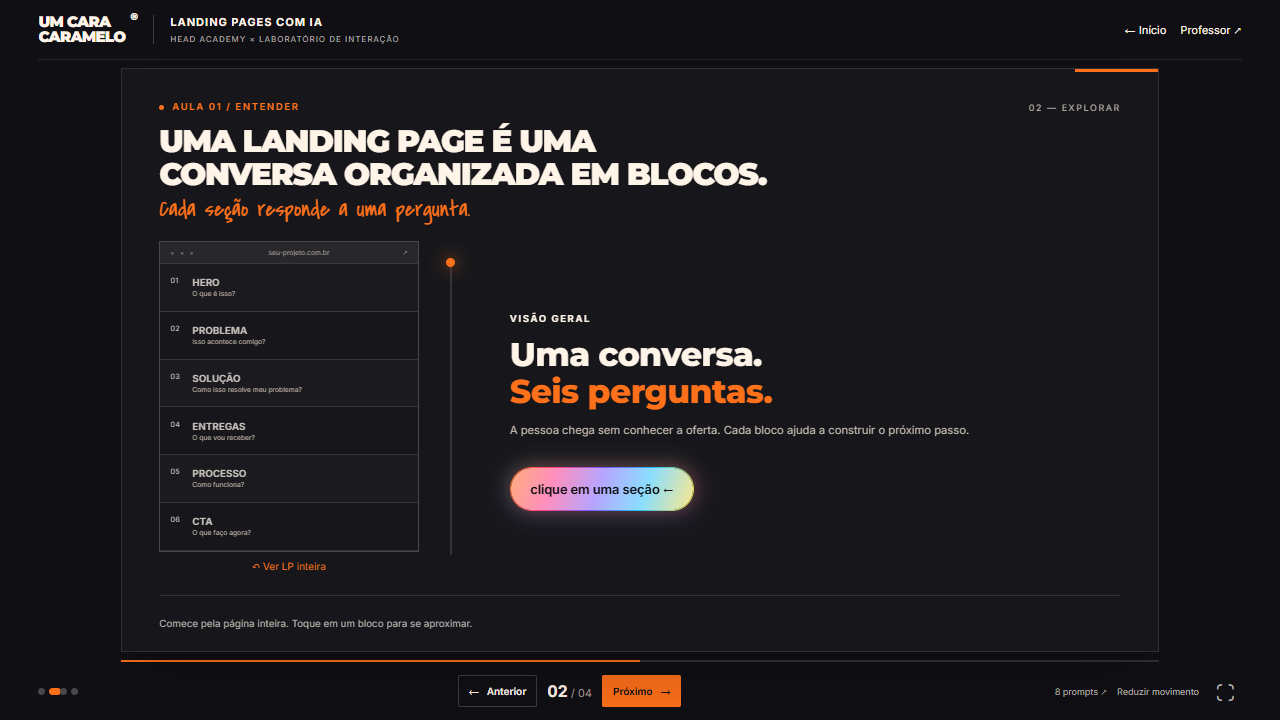
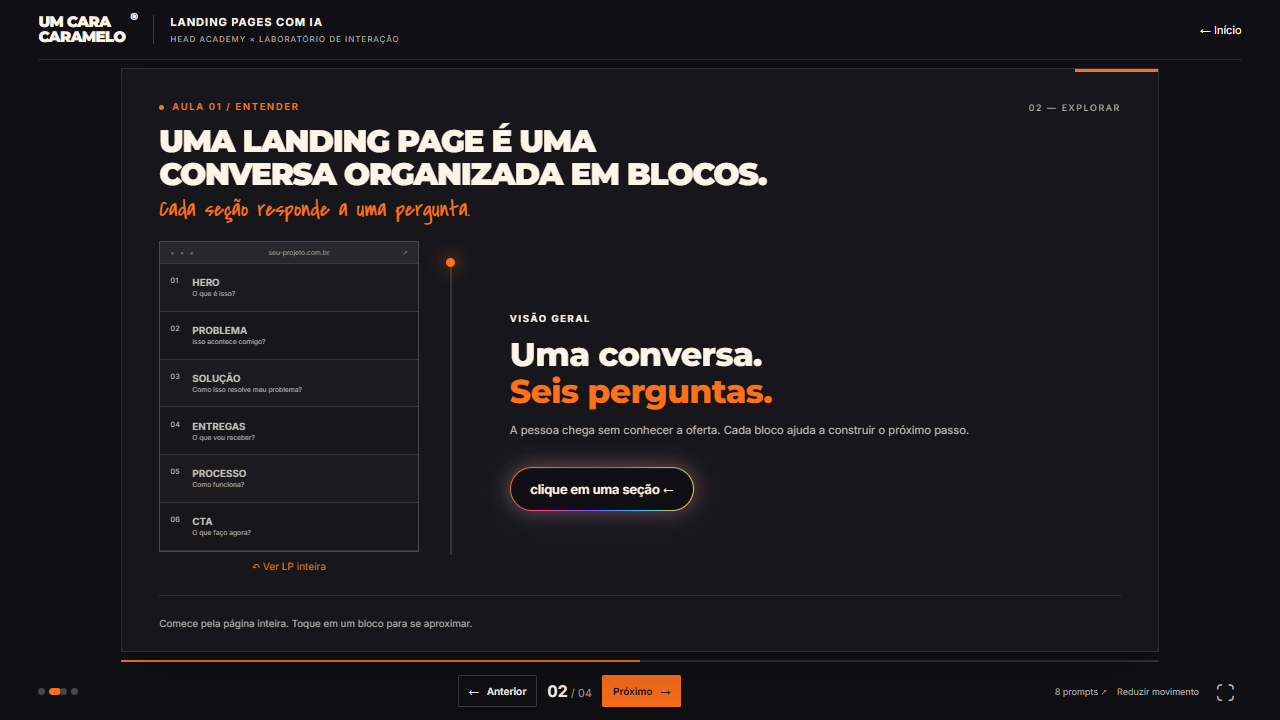
fix(aula-head): remover modo Professor

Changed region(s): [[0.375, 0.6417, 0.5625, 0.7333], [0.875, 0.0306, 0.9688, 0.0611]]

diff --git a/src/aula-head/App.tsx b/src/aula-head/App.tsx
@@ -7,24 +7,10 @@ import { Copy, Modal } from "./ui";
 import { Intro } from "./Intro";
 
 
-const params = new URLSearchParams(location.search);
-const isTeacher = params.get("professor") === "1";
-function presentationSession() {
-  const supplied = params.get("session");
-  if (supplied) return supplied;
-  try {
-    const key = "head-presentation-session";
-    const id = sessionStorage.getItem(key) || crypto.randomUUID();
-    sessionStorage.setItem(key, id);
-    return id;
-  } catch { return crypto.randomUUID(); }
-}
-const session = presentationSession();
-const channelName = `aula-head-presenter-${session}`;
 const isLessonLocation = () => /^#slide-\d+$/.test(location.hash) || location.hash === "#aula-01" || /\/aula-01\/?$/.test(location.pathname);
 
 export default function App() {
-  const [showIntro, setShowIntro] = useState(() => !isTeacher && !isLessonLocation());
+  const [showIntro, setShowIntro] = useState(() => !isLessonLocation());
   const [index, setIndex] = useState(hashSlide);
   const [lab, setLab] = useState(emptyLabState);
   const [modal, setModal] = useState<"prompts" | null>(null);
@@ -32,9 +18,6 @@ export default function App() {
   const [message, setMessage] = useState("");
   const [media, setMedia] = useState<Record<string, string>>({});
   const [reduced, setReduced] = useState(() => matchMedia("(prefers-reduced-motion: reduce)").matches);
-  const [connected, setConnected] = useState(false);
-  const channel = useRef<BroadcastChannel | null>(null);
-  const teacherWindow = useRef<Window | null>(null);
   const slideRef = useRef(index);
   const introRef = useRef(showIntro);
   const slide = slides[index];
@@ -46,30 +29,24 @@ export default function App() {
 
   const returnHome = useCallback(() => {
     setShowIntro(true);
-    if (isTeacher) channel.current?.postMessage({ type: "home" });
   }, []);
 
   const go = useCallback((next: number) => {
     const value = Math.min(15, Math.max(0, next));
     setShowIntro(false); setIndex(value);
-    if (isTeacher) channel.current?.postMessage({ type: "navigate", index: value });
   }, []);
   useEffect(() => {
     if (showIntro) {
-      if (!isTeacher) {
-        const path = location.pathname.replace(/\/aula-01\/?$/, "");
-        history.replaceState(null, "", `${path}${location.search}#inicio`);
-        document.title = "Landing Pages com IA · HEAD × Um Cara Caramelo";
-        channel.current?.postMessage({ type: "home" });
-      }
+      const path = location.pathname.replace(/\/aula-01\/?$/, "");
+      history.replaceState(null, "", `${path}${location.search}#inicio`);
+      document.title = "Landing Pages com IA · HEAD × Um Cara Caramelo";
       return;
     }
     history.replaceState(null, "", `${location.pathname}${location.search}#slide-${index + 1}`);
-    document.title = `${isTeacher ? "Professor · " : ""}${index % 4 + 1}/4 · Aula ${Math.floor(index / 4) + 1} · ${slide.title} · HEAD`;
-    if (!isTeacher) channel.current?.postMessage({ type: "slide", index });
+    document.title = `${index % 4 + 1}/4 · Aula ${Math.floor(index / 4) + 1} · ${slide.title} · HEAD`;
   }, [index, slide.title, showIntro]);
   useEffect(() => {
-    const syncHash = () => { setShowIntro(!isTeacher && !isLessonLocation()); setIndex(hashSlide()); };
+    const syncHash = () => { setShowIntro(!isLessonLocation()); setIndex(hashSlide()); };
     window.addEventListener("hashchange", syncHash);
     window.addEventListener("popstate", syncHash);
     const keyboard = (e: KeyboardEvent) => {
@@ -82,22 +59,6 @@ export default function App() {
     return () => { window.removeEventListener("hashchange", syncHash); window.removeEventListener("popstate", syncHash); window.removeEventListener("keydown", keyboard); };
   }, [go, returnHome]);
   useEffect(() => {
-    if (!("BroadcastChannel" in window)) return;
-    const bc = new BroadcastChannel(channelName); channel.current = bc;
-    bc.onmessage = ({ data }) => {
-      if (!data || typeof data !== "object") return;
-      if (data.type === "hello" && !isTeacher) { bc.postMessage(introRef.current ? { type: "home" } : { type: "slide", index: slideRef.current }); setConnected(true); }
-      if (data.type === "home") { setShowIntro(true); setConnected(true); }
-      if (data.type === "slide" && isTeacher && Number.isInteger(data.index) && data.index >= 0 && data.index < 16) { setShowIntro(false); setIndex(data.index); setConnected(true); }
-      if (data.type === "navigate" && !isTeacher && Number.isInteger(data.index) && data.index >= 0 && data.index < 16) { setShowIntro(false); setIndex(data.index); bc.postMessage({ type: "slide", index: data.index }); }
-      if (data.type === "bye") setConnected(false);
-    };
-    if (isTeacher) bc.postMessage({ type: "hello" });
-    const bye = () => bc.postMessage({ type: "bye" });
-    window.addEventListener("beforeunload", bye);
-    return () => { window.removeEventListener("beforeunload", bye); bc.close(); channel.current = null; };
-  }, []);
-  useEffect(() => {
     const preference = matchMedia("(prefers-reduced-motion: reduce)");
     const change = () => setReduced(preference.matches);
     preference.addEventListener("change", change);
@@ -106,31 +67,11 @@ export default function App() {
 
   const demo = useCallback((key: string, value: DemoValue) => { setLab(p => ({ ...p, demo: { ...p.demo, [key]: value } })); }, []);
   function openPrompt(i: number) { setPromptIndex(i); setModal("prompts"); }
-  const teacherUrl = new URL(location.href);
-  teacherUrl.search = new URLSearchParams({ professor: "1", session }).toString();
-  teacherUrl.hash = `slide-${index + 1}`;
-  function openTeacher(event: React.MouseEvent<HTMLAnchorElement>) {
-    event.preventDefault();
-    if (teacherWindow.current && !teacherWindow.current.closed) { teacherWindow.current.focus(); return; }
-    const popup = window.open(teacherUrl, `head-professor-${session}`, "popup,width=720,height=860"); teacherWindow.current = popup;
-    if (!popup) setMessage("O navegador bloqueou a janela do professor. Permita pop-ups para este site e tente novamente.");
-  }
   const navigation = <div className="navigation"><button className="button" aria-label="Slide anterior" disabled={index === lessonStart} onClick={() => go(index - 1)}>← <span>Anterior</span></button><span className="page-number"><b>{String(index - lessonStart + 1).padStart(2, "0")}</b> / 04</span><button className="button primary" aria-label={index === lessonEnd ? "Voltar à página inicial" : "Próximo slide"} onClick={() => index === lessonEnd ? returnHome() : go(index + 1)}><span>{index === lessonEnd ? "Voltar ao início" : "Próximo"}</span> {index === lessonEnd ? "↩" : "→"}</button></div>;
-
-  if (isTeacher && showIntro) return <main className="teacher-shell"><div className="eyebrow">MODO PROFESSOR</div><h1>Abertura do treinamento.</h1><p>Escolha a próxima aula na página inicial da apresentação. Esta janela acompanha a navegação.</p></main>;
-
-  if (isTeacher) return <main className="teacher-shell" style={{ "--accent": lesson.color } as React.CSSProperties}>
-    <div className="eyebrow">MODO PROFESSOR · JANELA SEPARADA</div><h1>Seu roteiro.<br /><em>A turma vê a experiência.</em></h1>
-    <p className="teacher-status">{connected ? "● Sincronizado com a apresentação" : "Aguardando a janela da apresentação. Mantenha as duas janelas abertas."}</p>
-    <p className="teacher-warning">Compartilhe somente a janela da apresentação. Compartilhar a tela inteira também expõe estas notas.</p>
-    <div className="teacher-current"><span className="eyebrow">AULA {slide.lesson + 1} · {lesson.name} · SLIDE {index - lessonStart + 1}</span><h2>{slide.title}</h2><blockquote>{slide.speech}</blockquote><h3>Como conduzir</h3><p className="teacher-instructions">{slide.instructions.replace(/\*\*/g, "")}</p></div>
-    {navigation}<div className="teacher-next"><span className="eyebrow">A SEGUIR</span><p>{index === lessonEnd ? "Voltar à abertura para escolher a próxima aula." : slides[index + 1].title}</p></div>
-    <p className="small">As interações permanecem na janela projetada. Estas setas controlam os quatro slides desta aula.</p>
-  </main>;
 
   return <>
     {showIntro ? <Intro onLesson={go} onPrompts={() => setModal("prompts")} /> : <main className={`presentation ${reduced ? "reduced-motion" : ""}`} style={{ "--accent": lesson.color } as React.CSSProperties}>
-    <header className="topbar"><a className="wordmark" href="/">UM CARA<br />CARAMELO<span>®</span></a><div className="course-brand"><strong>LANDING PAGES COM IA</strong><span>HEAD ACADEMY × LABORATÓRIO DE INTERAÇÃO</span></div><div className="top-actions"><button onClick={returnHome}>← Início</button><a href={teacherUrl.href} target="_blank" rel="noopener" onClick={openTeacher}>Professor ↗</a></div></header>
+    <header className="topbar"><a className="wordmark" href="/">UM CARA<br />CARAMELO<span>®</span></a><div className="course-brand"><strong>LANDING PAGES COM IA</strong><span>HEAD ACADEMY × LABORATÓRIO DE INTERAÇÃO</span></div><div className="top-actions"><button onClick={returnHome}>← Início</button></div></header>
     <section className="stage" aria-label={`Aula ${slide.lesson + 1}, slide ${index - lessonStart + 1}: ${slide.title}`}>
       <div className="slide-content" key={index}>
         <header className="slide-header"><div className="eyebrow"><span className="live-dot" /> AULA 0{slide.lesson + 1} / {lesson.name}<span className="slide-caption">{String(index - lessonStart + 1).padStart(2, "0")} — EXPLORAR</span></div><h1>{slide.heading}</h1><p className="slide-line">{slide.line}</p></header>

diff --git a/src/aula-head/data.ts b/src/aula-head/data.ts
@@ -1,5 +1,4 @@
 import originals from "./original-prompts.json";
-import notes from "./teacher-notes.json";
 
 export const lessons = [
   { name: "ENTENDER", question: "O que estamos construindo?", result: "Briefing inicial da sua Landing Page.", color: "#FF701A" },
@@ -24,21 +23,21 @@ export const toolIO = [
   ["Relatório + intenção narrativa", "Plano de movimento e interação"],
 ];
 export const slides = [
-  { title: "UMA PÁGINA BONITA CHAMA ATENÇÃO.", line: "Uma página bem construída conduz a uma decisão.", invite: "Qual destas páginas é mais fácil de entender?", prompt: -1 },
-  { title: "UMA LANDING PAGE É UMA CONVERSA ORGANIZADA EM BLOCOS.", line: "Cada seção responde a uma pergunta.", invite: "Comece pela página inteira. Toque em um bloco para se aproximar.", prompt: -1 },
-  { title: "A ORDEM DAS INFORMAÇÕES MUDA A FORMA COMO ENTENDEMOS UMA MENSAGEM.", line: "O caminho deve acompanhar a decisão do visitante.", invite: "Arraste os blocos ou use as setas para construir seu percurso.", prompt: -1 },
-  { title: "VOCÊ NÃO PRECISA SABER PROGRAMAR.", line: "Precisa aprender a dar direção.", invite: "Explore as oito ferramentas e descubra o que cada uma recebe e entrega.", prompt: -1 },
-  { title: "ANTES DE CONSTRUIR A PÁGINA, PRECISAMOS SABER O QUE ELA VAI DIZER.", line: "A mensagem vem antes da interface.", invite: "Explore as perguntas que alimentam a copy.", prompt: 0 },
-  { title: "A HERO É O PRIMEIRO IMPACTO DA SUA LANDING PAGE.", line: "Texto, imagem e ação trabalhando juntos.", invite: "Toque nos elementos. Edite a copy e observe a mudança.", prompt: 1 },
-  { title: "UMA REFERÊNCIA DEFINE A CENA.", line: "A outra define quem estará nela.", invite: "Compare as camadas e descubra o papel de cada referência.", prompt: 2 },
-  { title: "UMA BOA ANIMAÇÃO NÃO PRECISA CHAMAR ATENÇÃO.", line: "Ela precisa parecer natural.", invite: "Compare a imagem com o vídeo e examine o fechamento do loop.", prompt: 3 },
-  { title: "ANTES DE ESCOLHER CORES E FONTES, ESCOLHEMOS UMA DIREÇÃO.", line: "Um moodboard precisa comunicar uma intenção.", invite: "Selecione referências e observe o que elas têm em comum.", prompt: -1 },
-  { title: "MOODBOARD É INSPIRAÇÃO.", line: "Design System é regra.", invite: "Troque o sistema. A mensagem e a ordem continuam iguais.", prompt: 4 },
-  { title: "O QUE ESTÁ APROVADO NÃO DEVE MUDAR SEM PERMISSÃO.", line: "O pedido define o limite da alteração.", invite: "Pedido: “Troque a cor do botão.” Qual execução respeita a direção?", prompt: 5 },
-  { title: "MESMA IDENTIDADE.", line: "Novas composições.", invite: "Adicione seções e compare repetição com consistência.", prompt: -1 },
-  { title: "ANTES DE TRANSFORMAR, PRECISAMOS MAPEAR.", line: "Entenda o que existe antes de modificar.", invite: "Inspecione o projeto e explore suas camadas.", prompt: 6 },
-  { title: "ANIMAR NÃO É DECORAR.", line: "É comunicar.", invite: "Escolha uma cena. Controle o movimento e observe a mensagem.", prompt: -1 },
-  { title: "SCROLL, MOVIMENTO E INTERAÇÃO PODEM GUIAR O USUÁRIO.", line: "Escolha onde o movimento ajuda a entender.", invite: "Experimente entrada, scroll e resposta à interação.", prompt: 7 },
-  { title: "BONITA É BOM.", line: "Funcionando é essencial.", invite: "Verifique sua página real antes de marcar cada item.", prompt: -1 },
-].map((slide, i) => ({ ...slide, ...notes[i], heading: slide.title, lesson: Math.floor(i / 4) }));
+  { title: "Uma Landing Page não é só uma página bonita", heading: "UMA PÁGINA BONITA CHAMA ATENÇÃO.", line: "Uma página bem construída conduz a uma decisão.", invite: "Qual destas páginas é mais fácil de entender?", prompt: -1 },
+  { title: "A anatomia de uma Landing Page", heading: "UMA LANDING PAGE É UMA CONVERSA ORGANIZADA EM BLOCOS.", line: "Cada seção responde a uma pergunta.", invite: "Comece pela página inteira. Toque em um bloco para se aproximar.", prompt: -1 },
+  { title: "Hierarquia da informação", heading: "A ORDEM DAS INFORMAÇÕES MUDA A FORMA COMO ENTENDEMOS UMA MENSAGEM.", line: "O caminho deve acompanhar a decisão do visitante.", invite: "Arraste os blocos ou use as setas para construir seu percurso.", prompt: -1 },
+  { title: "A IA executa. Você dirige.", heading: "VOCÊ NÃO PRECISA SABER PROGRAMAR.", line: "Precisa aprender a dar direção.", invite: "Explore as oito ferramentas e descubra o que cada uma recebe e entrega.", prompt: -1 },
+  { title: "Toda Landing Page começa com uma mensagem", heading: "ANTES DE CONSTRUIR A PÁGINA, PRECISAMOS SABER O QUE ELA VAI DIZER.", line: "A mensagem vem antes da interface.", invite: "Explore as perguntas que alimentam a copy.", prompt: 0 },
+  { title: "Construindo a Hero", heading: "A HERO É O PRIMEIRO IMPACTO DA SUA LANDING PAGE.", line: "Texto, imagem e ação trabalhando juntos.", invite: "Toque nos elementos. Edite a copy e observe a mudança.", prompt: 1 },
+  { title: "Criando uma imagem personalizada", heading: "UMA REFERÊNCIA DEFINE A CENA.", line: "A outra define quem estará nela.", invite: "Compare as camadas e descubra o papel de cada referência.", prompt: 2 },
+  { title: "Dando movimento à imagem", heading: "UMA BOA ANIMAÇÃO NÃO PRECISA CHAMAR ATENÇÃO.", line: "Ela precisa parecer natural.", invite: "Compare a imagem com o vídeo e examine o fechamento do loop.", prompt: 3 },
+  { title: "Moodboard: criando o universo visual", heading: "ANTES DE ESCOLHER CORES E FONTES, ESCOLHEMOS UMA DIREÇÃO.", line: "Um moodboard precisa comunicar uma intenção.", invite: "Selecione referências e observe o que elas têm em comum.", prompt: -1 },
+  { title: "Design System: transformando inspiração em regras", heading: "MOODBOARD É INSPIRAÇÃO.", line: "Design System é regra.", invite: "Troque o sistema. A mensagem e a ordem continuam iguais.", prompt: 4 },
+  { title: "Ensinando a IA a respeitar decisões", heading: "O QUE ESTÁ APROVADO NÃO DEVE MUDAR SEM PERMISSÃO.", line: "O pedido define o limite da alteração.", invite: "Pedido: “Troque a cor do botão.” Qual execução respeita a direção?", prompt: 5 },
+  { title: "De uma Hero para uma Landing Page completa", heading: "MESMA IDENTIDADE.", line: "Novas composições.", invite: "Adicione seções e compare repetição com consistência.", prompt: -1 },
+  { title: "Antes de modificar, precisamos entender", heading: "ANTES DE TRANSFORMAR, PRECISAMOS MAPEAR.", line: "Entenda o que existe antes de modificar.", invite: "Inspecione o projeto e explore suas camadas.", prompt: 6 },
+  { title: "Movimento também comunica", heading: "ANIMAR NÃO É DECORAR.", line: "É comunicar.", invite: "Escolha uma cena. Controle o movimento e observe a mensagem.", prompt: -1 },
+  { title: "Construindo uma experiência interativa", heading: "SCROLL, MOVIMENTO E INTERAÇÃO PODEM GUIAR O USUÁRIO.", line: "Escolha onde o movimento ajuda a entender.", invite: "Experimente entrada, scroll e resposta à interação.", prompt: 7 },
+  { title: "Sua Landing Page está pronta?", heading: "BONITA É BOM.", line: "Funcionando é essencial.", invite: "Verifique sua página real antes de marcar cada item.", prompt: -1 },
+].map((slide, i) => ({ ...slide, lesson: Math.floor(i / 4) }));
 export const finalChecks = ["A oferta está clara?", "Os textos estão corretos?", "O Design System está consistente?", "Os botões funcionam?", "Os formulários funcionam?", "A página funciona no celular?", "O vídeo e as animações carregam corretamente?", "A experiência continua compreensível sem animações?", "Existem erros, elementos quebrados ou informações inventadas?", "A página está preparada para publicação?"];

diff --git a/src/aula-head/style.css b/src/aula-head/style.css
@@ -2346,95 +2346,6 @@ textarea {
   color: #d7c9bd;
   margin-top: 18px;
 }
-.teacher-shell {
-  max-width: 760px;
-  margin: 0 auto;
-  padding: 36px 28px 60px;
-  --accent: #ff701a;
-}
-.teacher-shell>.eyebrow {
-  font-size: 10px;
-  color: var(--accent);
-}
-.teacher-shell>h1 {
-  font-family: Montserrat,sans-serif;
-  font-size: 36px;
-  font-weight: 800;
-  line-height: 1.15;
-  letter-spacing: -1px;
-}
-.teacher-shell em {
-  color: var(--accent);
-  font-style: normal;
-}
-.teacher-status {
-  font-size: 12px;
-  color: var(--accent);
-}
-.teacher-warning {
-  font-size: 12px;
-  line-height: 1.6;
-  color: #baada2;
-}
-.teacher-current {
-  border-top: 2px solid var(--accent);
-  background: #1c1b20;
-  padding: 25px;
-  margin: 25px 0;
-}
-.teacher-current>.eyebrow {
-  font-size: 10px;
-  color: var(--accent);
-}
-.teacher-current>h2 {
-  font-family: Montserrat,sans-serif;
-  font-size: 24px;
-  font-weight: 800;
-  letter-spacing: -.7px;
-}
-.teacher-current blockquote {
-  font-size: 20px;
-  line-height: 1.6;
-  border-left: 2px solid var(--accent);
-  padding-left: 20px;
-  margin: 24px 0;
-}
-.teacher-current h3 {
-  font-size: 12px;
-  letter-spacing: 1px;
-  text-transform: uppercase;
-  color: var(--accent);
-  margin-top: 28px;
-}
-.teacher-current p {
-  font-size: 14px;
-  line-height: 1.8;
-}
-.teacher-current .teacher-instructions {
-  white-space: pre-line;
-}
-.teacher-current .hint {
-  font-size: 12px;
-  padding-left: 12px;
-}
-.teacher-shell>.navigation {
-  justify-content: space-between;
-}
-.teacher-next {
-  border-top: 1px solid #ffffff20;
-  margin-top: 24px;
-  padding-top: 20px;
-}
-.teacher-next>.eyebrow {
-  font-size: 10px;
-  color: var(--accent);
-}
-.teacher-next>p {
-  font-size: 14px;
-}
-.teacher-shell>.small {
-  font-size: 11px;
-}
 .reduced-motion *, .reduced-motion *::before,.reduced-motion *::after {
   animation: none!important;
   transition: none!important;
@@ -2953,22 +2864,6 @@ textarea {
     font-size: 11px;
     padding: 12px;
   }
-  .teacher-shell {
-    padding: 24px 18px;
-  }
-  .teacher-shell>h1 {
-    font-size: 28px;
-  }
-  .teacher-current {
-    padding: 18px;
-  }
-  .teacher-current>h2 {
-    font-size: 21px;
-  }
-  .teacher-current blockquote {
-    font-size: 17px;
-    padding-left: 14px;
-  }
 }
 @media print {
   .topbar, .lesson-nav, .deck-footer, .deck-progress, .slide-footer {
@@ -2984,13 +2879,5 @@ textarea {
     display: block;
     height: auto;
     padding: 0;
-  }
-  .teacher-shell {
-    max-width: 100%;
-    color: #101014;
-    background: white;
-  }
-  .teacher-shell>.navigation {
-    display: none;
   }
 }

diff --git a/docs/qa/aula-head-2026-10-22/README.md b/docs/qa/aula-head-2026-10-22/README.md
@@ -6,14 +6,14 @@ Versão de 22/10/2026: abertura interativa e quatro apresentações de quatro sl
 
 - Abertura original recuperada com vídeo local controlado pelo mouse, logo HEAD e quatro cards de aula.
 - Cada card abre a apresentação correspondente. Apenas os quatro slides dessa aula ficam disponíveis; o último botão retorna à abertura para escolher outra aula.
-- Cabeçalho, palco e navegação cabem na viewport. A tela principal não depende de rolagem vertical. Prompts integrais e notas do professor mantêm leitura interna quando necessário.
+- Cabeçalho, palco e navegação cabem na viewport. A tela principal não depende de rolagem vertical. Prompts integrais mantêm leitura interna quando necessário.
 - Sem “Meu projeto”, caderno, briefing pessoal, registros de entrega, exportação ou painéis “No seu projeto”. As demonstrações usam estado transitório, sem leitura ou gravação de projeto em localStorage.
-- Janela separada do professor, sincronizada com a aula e com o retorno à abertura.
+- Modo Professor removido: sem botão, notas, janela separada ou sincronização entre janelas. Links antigos com `?professor=1` abrem a apresentação normal.
 - O convite “clique em uma seção ←” usa o MagneticButton canônico do MCP Caramelo (magnetic-fill, accent, fill, swap). O clique abre Hero e transfere o foco para a seção do mapa.
 
 ## Fontes
 
-Os oito prompts integrais permanecem idênticos ao acervo anterior, recuperado do bundle original `public/aula-head/assets/index-D2Ot7DKX.js` com o parser do TypeScript. A numeração de uso permanece em `src/aula-head/data.ts`. As notas do professor vieram do roteiro anexado ao pedido.
+Os oito prompts integrais permanecem idênticos ao acervo anterior, recuperado do bundle original `public/aula-head/assets/index-D2Ot7DKX.js` com o parser do TypeScript. A numeração de uso permanece em `src/aula-head/data.ts`. As notas do professor foram retiradas; os títulos dos slides foram preservados.
 
 O vídeo, poster, logo e artes da abertura continuam em `public/aula-head/`. A cronologia direcional do mouse e o CSS da abertura foram recuperados do bundle e CSS anteriores. O CSS está isolado em `.head-intro`; ajustes de viewport ficam em `intro.css`.
 
@@ -28,7 +28,7 @@ O botão do Slide 02 foi conferido com `get_interaction({id: "magnetic-fill", fo
 | Navegação | Quatro pontos e contador 01/04 a 04/04 em cada aula. Abas para trocar de aula removidas. Voltar ao início funciona no fim de cada aula. |
 | Viewports | 16 slides em 1280×720, 390×844 e 844×390: 48 estados sem overflow vertical externo, com rodapé dentro da janela. |
 | Movimento reduzido | Painel de ferramentas conferido sem overflow interno nas três dimensões, desconsiderando o deslocamento transitório da animação de entrada. |
-| Professor | Retorno à abertura sincronizado nas duas janelas; escolher Aula 3 atualizou ambas para 01/04 da aula correspondente. |
+| Professor | Modo e código de sincronização removidos. Link antigo com `?professor=1` abre a apresentação normal. |
 | CTA canônico | Classes cm-btn, cm-btn--accent, cm-btn--lg e cm-btn--fill. Clique revelou “O que é isso?” e focou o botão Hero do mapa. |
 | Dados pessoais | Ausência dos controles de projeto/caderno e de código de persistência localStorage na apresentação. |
 | Prompts | Acervo integral preservado e acesso pelo banco na abertura e nas aulas. |
